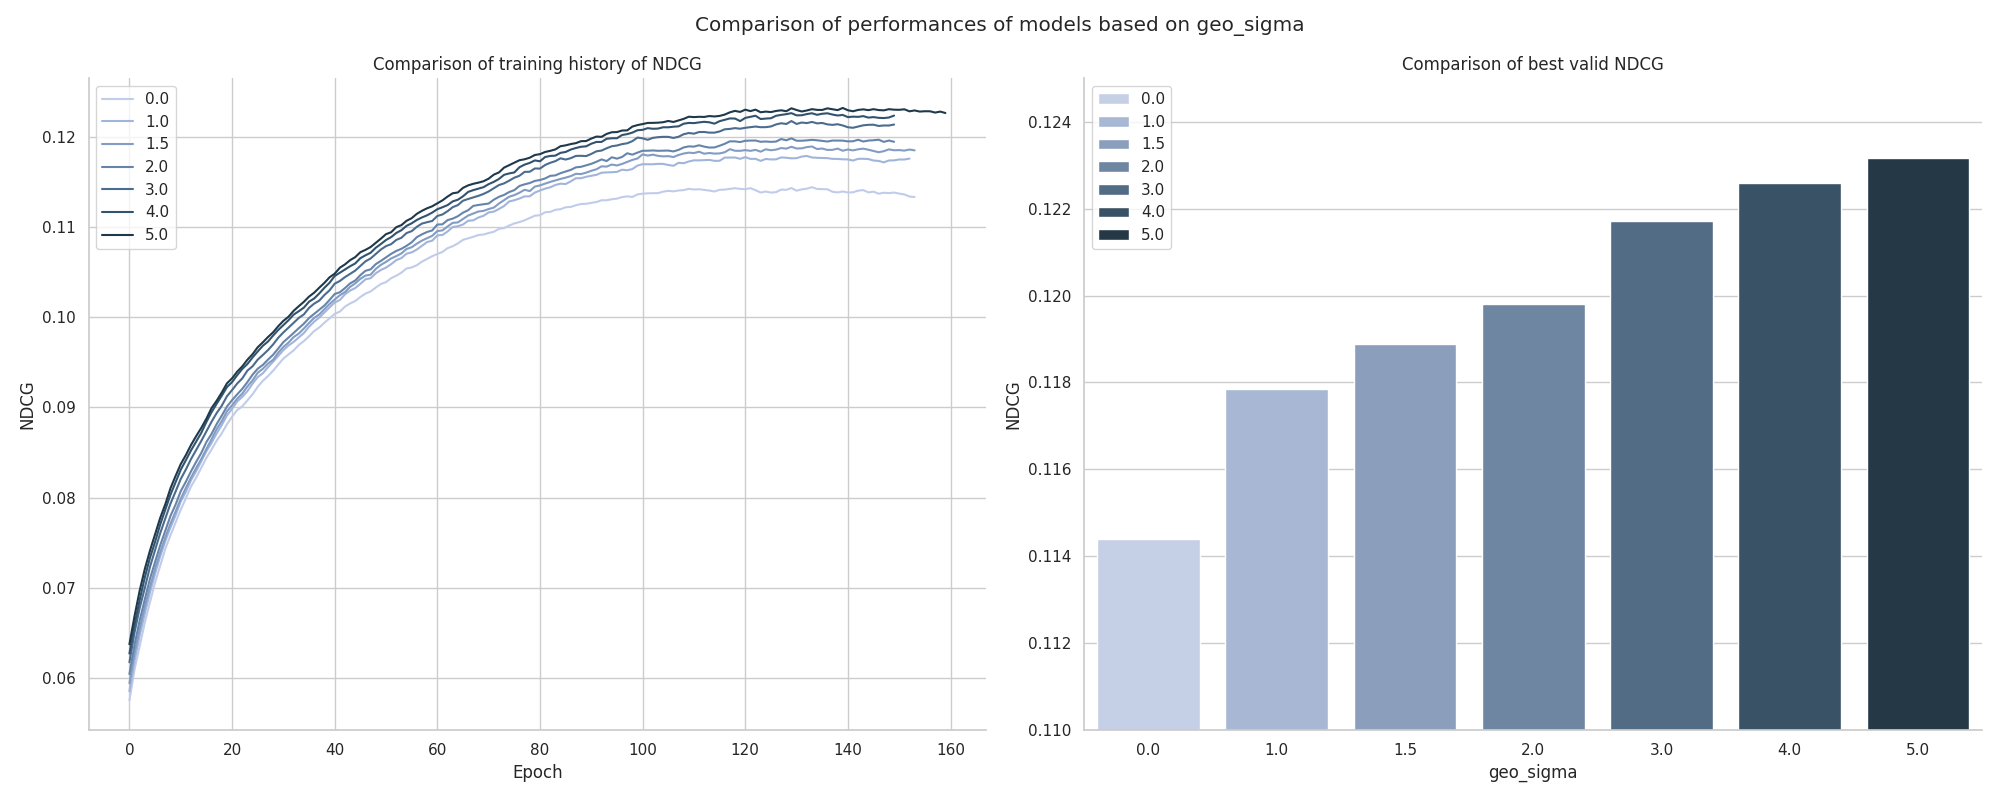
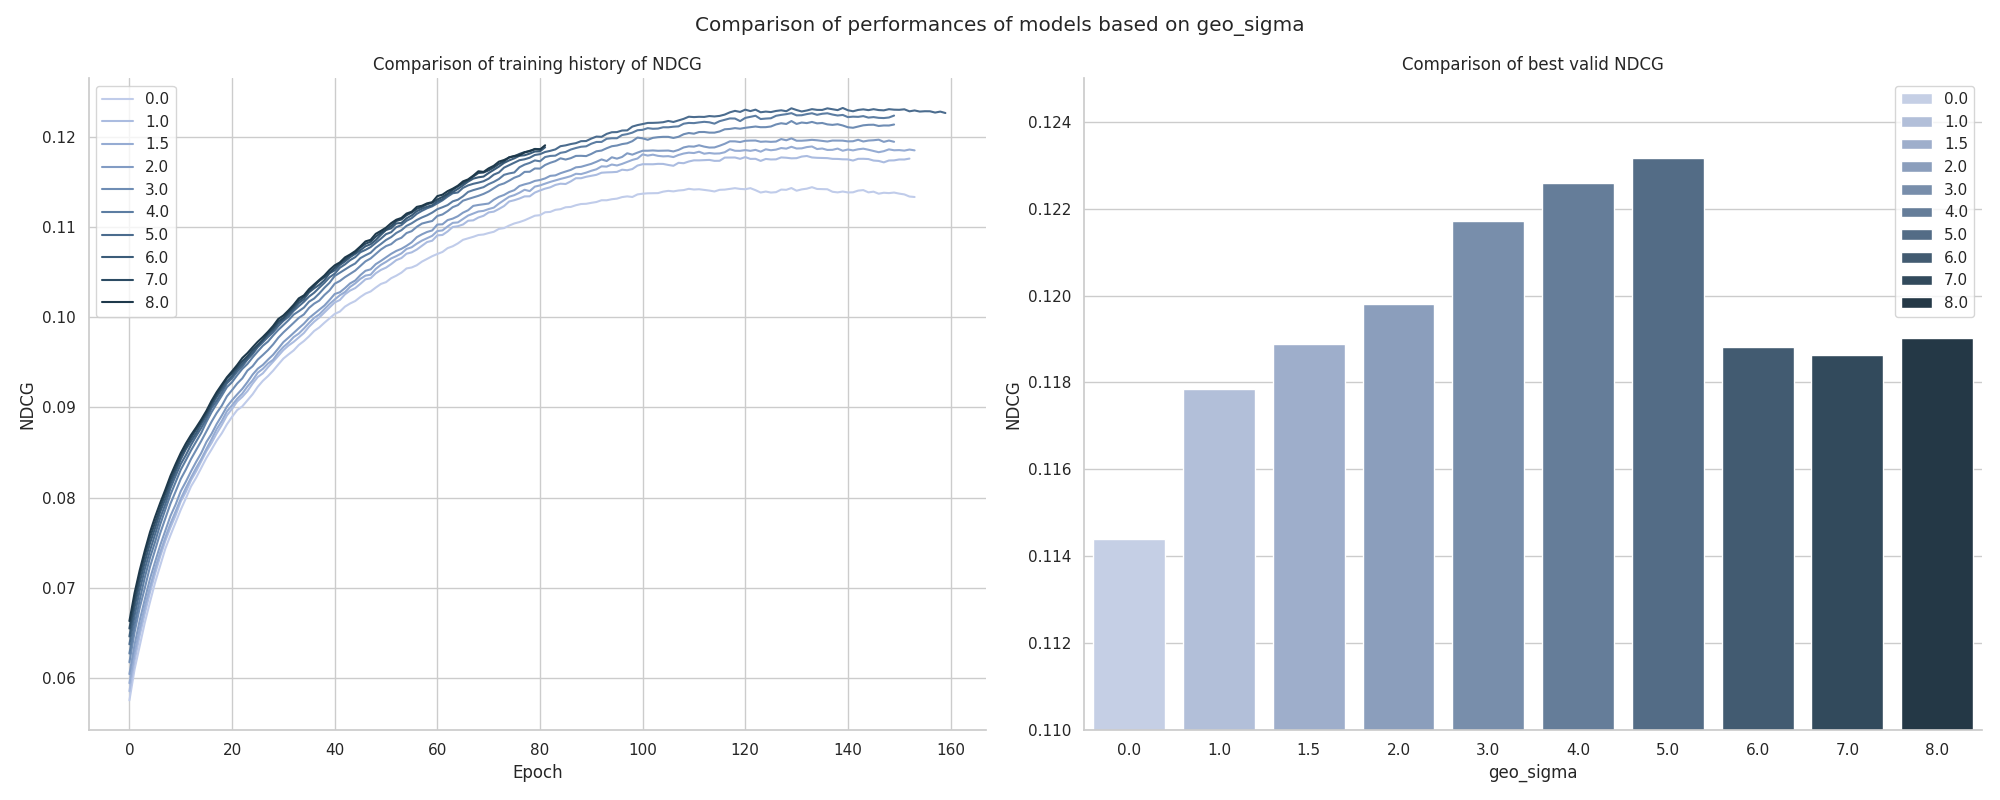
geo distance with knn

diff --git a/training/dataset.py b/training/dataset.py
@@ -51,7 +51,7 @@ def add_geo_distance(cfg, train, n_items, graph_path):
     EARTH_RADIUS_KM = 6371.0
     geo_threshold = cfg.model.get("geo_threshold", 0.0)
     geo_sigma = cfg.model.get("geo_sigma", 0.0)
-    geo_k_neighbors = cfg.model.get("k_neighbors", 0)
+    geo_k_neighbors = cfg.model.get("geo_k_neighbors", 0)
 
     if geo_threshold != 0 or geo_k_neighbors != 0:
         item_locs = train.drop_duplicates(subset=["iid"])[["iid", "latitude", "longitude"]].set_index("iid")
@@ -66,13 +66,9 @@ def add_geo_distance(cfg, train, n_items, graph_path):
             graph_path += f"_geo_distance_{geo_threshold}_{geo_sigma}"
         else:
             dists_rad, indices = tree.query(coords, k=geo_k_neighbors)
-            graph_path += f"_geo_distance_{k_neighbors}"
+            graph_path += f"_geo_distance_{geo_k_neighbors}"
 
-        rows = []
-        cols = []
-        weights = []
-
-        gamma = -1.0 / (geo_sigma ** 2)
+        rows, cols, weights = [], [], []
 
         for i, (neighbors, dists) in enumerate(zip(indices, dists_rad)):
             mask = neighbors != i
@@ -82,9 +78,12 @@ def add_geo_distance(cfg, train, n_items, graph_path):
             if len(valid_neighbors) == 0:
                 continue
 
-            dists_km = valid_dists_rad * EARTH_RADIUS_KM
-
-            w = np.exp(gamma * (dists_km ** 2))
+            if geo_k_neighbors == 0:
+                gamma = -1.0 / (geo_sigma ** 2)
+                dists_km = valid_dists_rad * EARTH_RADIUS_KM
+                w = np.exp(gamma * (dists_km ** 2))
+            else:
+                w = np.ones(len(valid_neighbors), dtype=np.float32)
 
             rows.extend([i] * len(valid_neighbors))
             cols.extend(valid_neighbors)
@@ -152,6 +151,7 @@ def load_adjacency_matrix(cfg):
     if geo_k_neighbors != 0:
         graph_path += f"_geo_distance_{geo_k_neighbors}"
 
+    print(os.path.exists(f"{graph_path}.pt"), graph_path)
     if not os.path.exists(f"{graph_path}.pt"):
         build_adjacency_matrix(cfg)
 

diff --git a/evaluation/compare_models.py b/evaluation/compare_models.py
@@ -220,6 +220,19 @@ if __name__ == "__main__":
         "geo_distance_20.0_3.0",
         "geo_distance_20.0_4.0",
         "geo_distance_20.0_5.0",
+        "geo_distance_20.0_6.0",
+        "geo_distance_20.0_7.0",
+        "geo_distance_20.0_8.0",
     ]
     targets = ["model", "geo_sigma"]
+    plot_comparisons_one_target(names, targets, config_path, target_name=None)
+
+    names = [
+        "baseline",
+        "geo_distance_5",
+        "geo_distance_10",
+        "geo_distance_15",
+        "geo_distance_20",
+    ]
+    targets = ["model", "geo_k_neighbors"]
     plot_comparisons_one_target(names, targets, config_path, target_name=None)
